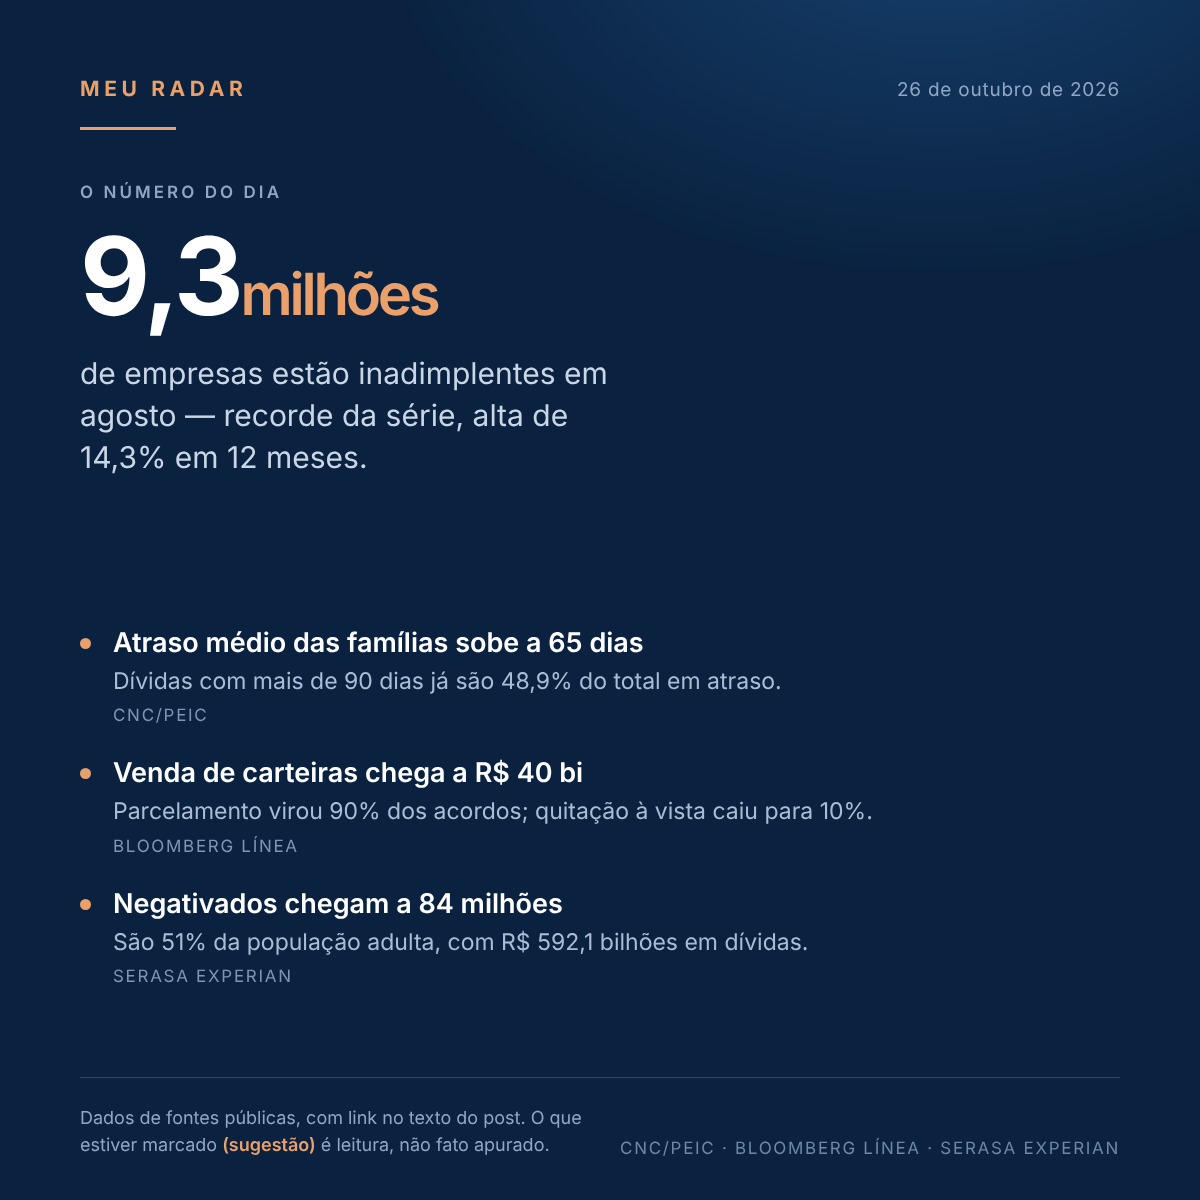
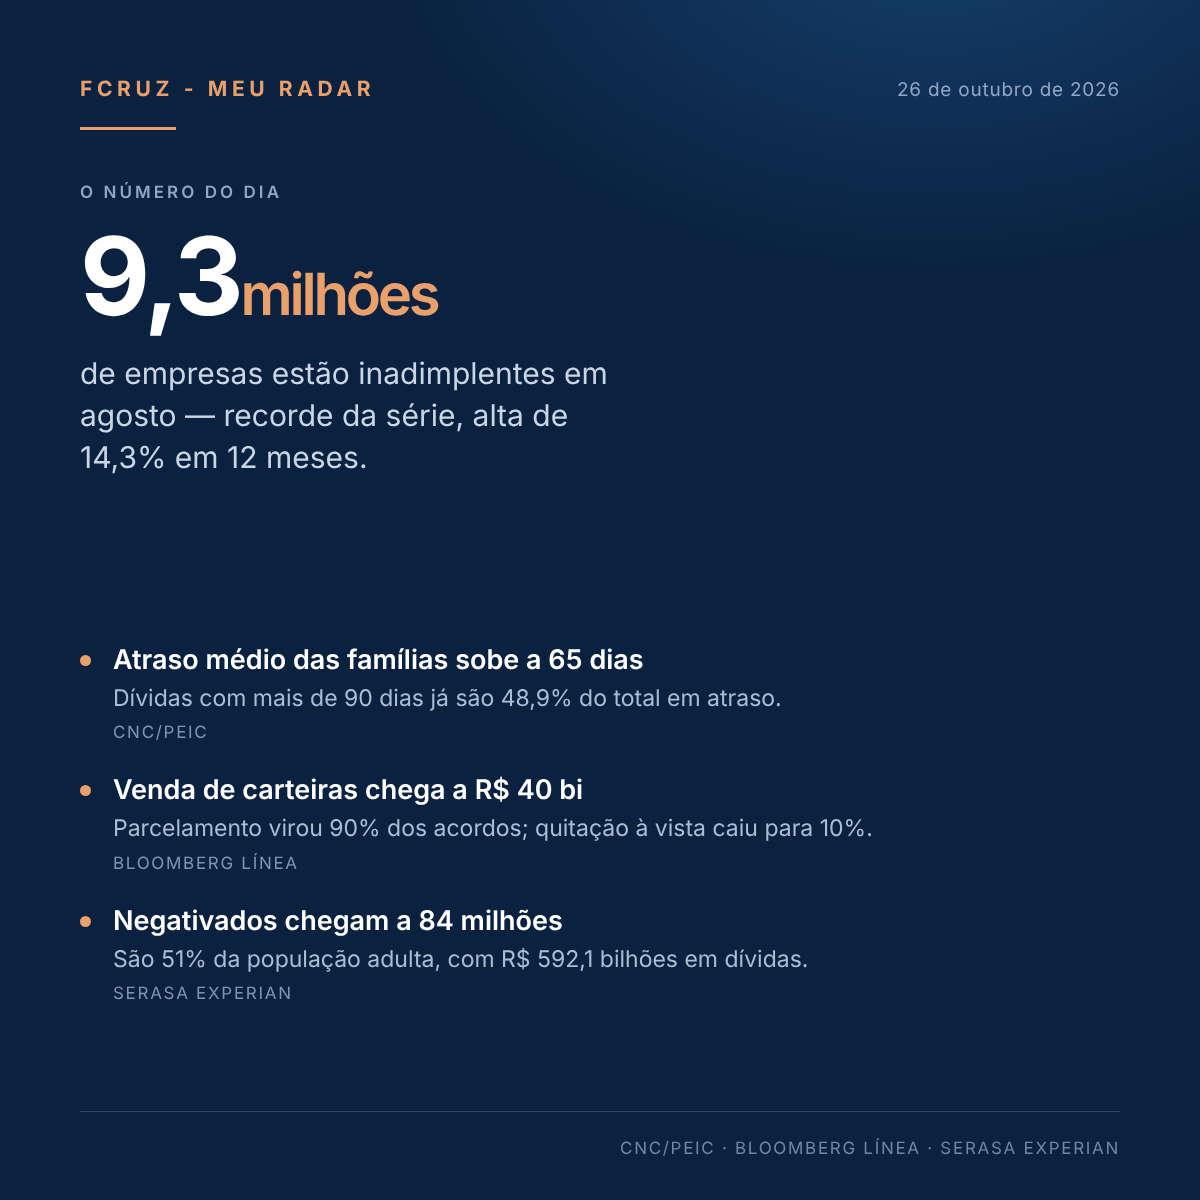
cartaz: título FCRUZ - MEU RADAR e remove aviso de fontes do rodapé

Changed region(s): [[0.0617, 0.5242, 0.74, 0.8325], [0.0617, 0.925, 0.4933, 0.9558], [0.0617, 0.0617, 0.3083, 0.0925]]

diff --git a/cartaz/2026-10-26.html b/cartaz/2026-10-26.html
@@ -68,10 +68,8 @@
   .rodape {
     margin-top: auto; padding: 26px 0 42px;
     border-top: 1px solid rgba(143,166,196,.28);
-    display: flex; justify-content: space-between; align-items: flex-end; gap: 32px;
+    display: flex; justify-content: flex-end; align-items: flex-end; gap: 32px;
   }
-  .aviso { font-size: 18px; line-height: 1.5; color: #8FA6C4; max-width: 62ch; }
-  .aviso strong { color: #E9A06B; font-weight: 600; }
   .assinatura {
     font-size: 17px; letter-spacing: .1em; text-transform: uppercase;
     color: #6F87A6; text-align: right; flex: none;
@@ -81,7 +79,7 @@
 <body>
 
   <div class="topo">
-    <div class="marca">Meu Radar</div>
+    <div class="marca">FCRUZ - MEU RADAR</div>
     <div class="data">26 de outubro de 2026</div>
   </div>
   <div class="regua"></div>
@@ -112,10 +110,6 @@
 
   <!-- RODAPÉ — não alterar. O guarda confere se este bloco está igual ao do modelo. -->
   <div class="rodape">
-    <div class="aviso">
-      Dados de fontes públicas, com link no texto do post. O que estiver marcado
-      <strong>(sugestão)</strong> é leitura, não fato apurado.
-    </div>
     <div class="assinatura">CNC/Peic · Bloomberg Línea · Serasa Experian</div>
   </div>
   <!-- FIM DO RODAPÉ -->

diff --git a/modelo-cartaz.html b/modelo-cartaz.html
@@ -68,10 +68,8 @@
   .rodape {
     margin-top: auto; padding: 26px 0 42px;
     border-top: 1px solid rgba(143,166,196,.28);
-    display: flex; justify-content: space-between; align-items: flex-end; gap: 32px;
+    display: flex; justify-content: flex-end; align-items: flex-end; gap: 32px;
   }
-  .aviso { font-size: 18px; line-height: 1.5; color: #8FA6C4; max-width: 62ch; }
-  .aviso strong { color: #E9A06B; font-weight: 600; }
   .assinatura {
     font-size: 17px; letter-spacing: .1em; text-transform: uppercase;
     color: #6F87A6; text-align: right; flex: none;
@@ -81,7 +79,7 @@
 <body>
 
   <div class="topo">
-    <div class="marca">Meu Radar</div>
+    <div class="marca">FCRUZ - MEU RADAR</div>
     <div class="data">{{DATA}}</div>
   </div>
   <div class="regua"></div>
@@ -98,10 +96,6 @@
 
   <!-- RODAPÉ — não alterar. O guarda confere se este bloco está igual ao do modelo. -->
   <div class="rodape">
-    <div class="aviso">
-      Dados de fontes públicas, com link no texto do post. O que estiver marcado
-      <strong>(sugestão)</strong> é leitura, não fato apurado.
-    </div>
     <div class="assinatura">{{FONTES}}</div>
   </div>
   <!-- FIM DO RODAPÉ -->
